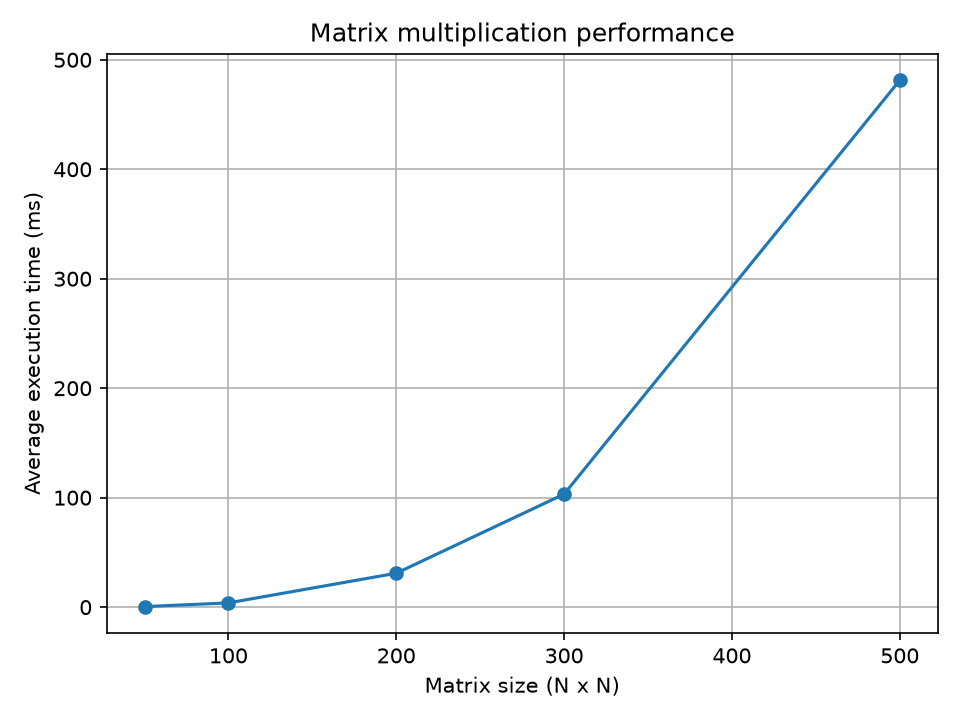
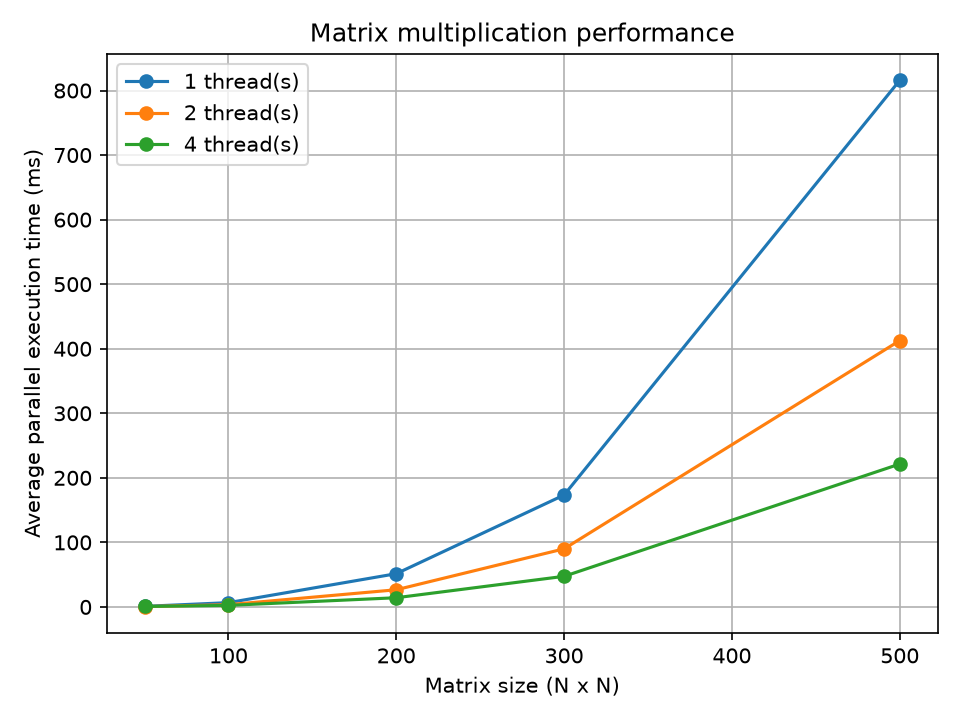
Add parallel matrix multiplication benchmarks

diff --git a/main.cpp b/main.cpp
@@ -3,90 +3,213 @@
 #include <vector>
 #include <chrono>
 #include <iomanip>
+#include <thread>
+#include <algorithm>
 #include <string>
 
-int main()
-{
-    std::ifstream inA("A.txt");
-    std::ifstream inB("B.txt");
+using namespace std;
 
-    if (!inA.is_open() || !inB.is_open())
+using Matrix = vector<vector<int>>;
+using ResultMatrix = vector<vector<long long>>;
+
+ResultMatrix multiply(const Matrix &A, const Matrix &B, int n)
+{
+    ResultMatrix C(n, vector<long long>(n, 0));
+
+    for (int i = 0; i < n; i++)
     {
-        std::cerr << "Error: cannot open input files\n";
+        for (int k = 0; k < n; k++)
+        {
+            for (int j = 0; j < n; j++)
+            {
+                C[i][j] +=
+                    static_cast<long long>(A[i][k]) * B[k][j];
+            }
+        }
+    }
+
+    return C;
+}
+
+ResultMatrix multiply_parallel(
+    const Matrix &A,
+    const Matrix &B,
+    int n,
+    int thread_count)
+{
+    ResultMatrix C(n, vector<long long>(n, 0));
+    vector<thread> threads;
+
+    int rows_per_thread = n / thread_count;
+    int remaining_rows = n % thread_count;
+    int start_row = 0;
+
+    for (int t = 0; t < thread_count; t++)
+    {
+        int rows = rows_per_thread + (t < remaining_rows ? 1 : 0);
+        int end_row = start_row + rows;
+
+        threads.emplace_back(
+            [&A, &B, &C, n, start_row, end_row]()
+            {
+                for (int i = start_row; i < end_row; i++)
+                {
+                    for (int k = 0; k < n; k++)
+                    {
+                        for (int j = 0; j < n; j++)
+                        {
+                            C[i][j] +=
+                                static_cast<long long>(A[i][k]) * B[k][j];
+                        }
+                    }
+                }
+            });
+
+        start_row = end_row;
+    }
+
+    for (auto &thread : threads)
+    {
+        thread.join();
+    }
+
+    return C;
+}
+
+int main(int argc, char *argv[])
+{
+    int thread_count = 4;
+
+    if (argc > 2)
+    {
+        cerr << "Usage: ./build/matrix [thread_count]\n";
+        return 1;
+    }
+
+    if (argc == 2)
+    {
+        try
+        {
+            size_t pos = 0;
+            thread_count = stoi(argv[1], &pos);
+
+            if (pos != string(argv[1]).length())
+            {
+                cerr << "Invalid thread count\n";
+                return 1;
+            }
+        }
+        catch (const exception &)
+        {
+            cerr << "Invalid thread count\n";
+            return 1;
+        }
+    }
+
+    if (thread_count <= 0)
+    {
+        cerr << "Thread count must be positive\n";
+        return 1;
+    }
+
+    ifstream inA("A.txt");
+    ifstream inB("B.txt");
+
+    if (!inA || !inB)
+    {
+        cerr << "Cannot open input files\n";
         return 1;
     }
 
     int nA, nB;
 
-    if (!(inA >> nA) || !(inB >> nB))
+    if (!(inA >> nA) || !(inB >> nB) || nA <= 0 || nA != nB)
     {
-        std::cerr << "Error: cannot read matrix sizes\n";
-        return 1;
-    }
-
-    if (nA <= 0 || nB <= 0 || nA != nB)
-    {
-        std::cerr << "Error: invalid matrix sizes\n";
+        cerr << "Invalid matrix sizes\n";
         return 1;
     }
 
     int n = nA;
+    thread_count = min(thread_count, n);
 
-    std::vector<int> A(n * n);
-    std::vector<int> B(n * n);
-    std::vector<long long> C(n * n, 0);
+    Matrix A(n, vector<int>(n));
+    Matrix B(n, vector<int>(n));
 
-    for (int i = 0; i < n * n; ++i)
+    for (int i = 0; i < n; i++)
     {
-        if (!(inA >> A[i]) || !(inB >> B[i]))
+        for (int j = 0; j < n; j++)
         {
-            std::cerr << "Error: cannot read matrix elements\n";
-            return 1;
-        }
-    }
-
-    auto start = std::chrono::high_resolution_clock::now();
-
-    for (int i = 0; i < n; ++i)
-    {
-        for (int j = 0; j < n; ++j)
-        {
-            for (int k = 0; k < n; ++k)
+            if (!(inA >> A[i][j]) || !(inB >> B[i][j]))
             {
-                C[i * n + j] +=
-                    static_cast<long long>(A[i * n + k]) * B[k * n + j];
+                cerr << "Cannot read matrix elements\n";
+                return 1;
             }
         }
     }
 
-    auto end = std::chrono::high_resolution_clock::now();
+    auto start = chrono::steady_clock::now();
 
-    double elapsed = std::chrono::duration<double, std::milli>(
-                         end - start)
-                         .count();
+    ResultMatrix C = multiply(A, B, n);
 
-    std::ofstream out("C.txt");
+    auto finish = chrono::steady_clock::now();
 
-    if (!out.is_open())
+    double sequential_time =
+        chrono::duration<double, milli>(finish - start).count();
+
+    start = chrono::steady_clock::now();
+
+    ResultMatrix parallel_C =
+        multiply_parallel(A, B, n, thread_count);
+
+    finish = chrono::steady_clock::now();
+
+    double parallel_time =
+        chrono::duration<double, milli>(finish - start).count();
+
+    if (C != parallel_C)
     {
-        std::cerr << "Error: cannot open output file\n";
+        cerr << "Error: results do not match\n";
+        return 1;
+    }
+
+    ofstream out("C.txt");
+
+    if (!out)
+    {
+        cerr << "Cannot create output file\n";
         return 1;
     }
 
     out << n << '\n';
 
-    for (int i = 0; i < n; ++i)
+    for (int i = 0; i < n; i++)
     {
-        for (int j = 0; j < n; ++j)
+        for (int j = 0; j < n; j++)
         {
-            out << C[i * n + j] << ' ';
+            out << parallel_C[i][j] << ' ';
         }
+
         out << '\n';
     }
 
-    std::cout << "Matrix size: " << n << "x" << n << '\n';
-    std::cout << std::fixed << std::setprecision(3);
-    std::cout << "Execution time: " << elapsed << " ms\n";
+    cout << "Matrix size: " << n << "x" << n << '\n';
+    cout << "Thread count: " << thread_count << '\n';
+
+    cout << fixed << setprecision(3);
+
+    cout << "Sequential time: "
+         << sequential_time << " ms\n";
+
+    cout << "Parallel time: "
+         << parallel_time << " ms\n";
+
+    cout << "Results match: yes\n";
+
+    if (parallel_time > 0.0)
+    {
+        cout << "Speedup: "
+             << sequential_time / parallel_time << "x\n";
+    }
 
     return 0;
 }

diff --git a/plot.py b/plot.py
@@ -11,6 +11,7 @@ PROGRAM = ROOT / "build" / "matrix"
 GENERATOR = ROOT / "gen.py"
 
 SIZES = [50, 100, 200, 300, 500]
+THREAD_COUNTS = [1, 2, 4]
 REPEATS = 3
 
 if not PROGRAM.exists():
@@ -20,52 +21,93 @@ if not PROGRAM.exists():
 results = []
 
 for n in SIZES:
-    times = []
+    subprocess.run(
+        [sys.executable, str(GENERATOR), str(n)],
+        cwd=ROOT,
+        check=True
+    )
 
-    for _ in range(REPEATS):
-        subprocess.run(
-            [sys.executable, str(GENERATOR), str(n)],
-            cwd=ROOT,
-            check=True
+    for thread_count in THREAD_COUNTS:
+        sequential_times = []
+        parallel_times = []
+
+        for _ in range(REPEATS):
+            process = subprocess.run(
+                [str(PROGRAM), str(thread_count)],
+                cwd=ROOT,
+                capture_output=True,
+                text=True,
+                check=True
+            )
+
+            sequential_match = re.search(
+                r"Sequential time:\s*([\d.]+)\s*ms",
+                process.stdout
+            )
+
+            parallel_match = re.search(
+                r"Parallel time:\s*([\d.]+)\s*ms",
+                process.stdout
+            )
+
+            if sequential_match is None or parallel_match is None:
+                print("Error: execution times not found")
+                print(process.stdout)
+                sys.exit(1)
+
+            sequential_times.append(float(sequential_match.group(1)))
+            parallel_times.append(float(parallel_match.group(1)))
+
+        sequential_average = sum(sequential_times) / REPEATS
+        parallel_average = sum(parallel_times) / REPEATS
+        speedup = sequential_average / parallel_average
+
+        results.append((
+            n,
+            thread_count,
+            sequential_average,
+            parallel_average,
+            speedup
+        ))
+
+        print(
+            f"Size: {n}x{n}, threads: {thread_count}, "
+            f"sequential: {sequential_average:.3f} ms, "
+            f"parallel: {parallel_average:.3f} ms, "
+            f"speedup: {speedup:.3f}x"
         )
-
-        process = subprocess.run(
-            [str(PROGRAM)],
-            cwd=ROOT,
-            capture_output=True,
-            text=True,
-            check=True
-        )
-
-        match = re.search(
-            r"Execution time:\s*([\d.]+)\s*ms",
-            process.stdout
-        )
-
-        if match is None:
-            print("Error: execution time not found")
-            print(process.stdout)
-            sys.exit(1)
-
-        times.append(float(match.group(1)))
-
-    average = sum(times) / len(times)
-    results.append((n, average))
-
-    print(f"Size: {n}x{n}, average time: {average:.3f} ms")
 
 with open(ROOT / "results.csv", "w", newline="") as file:
     writer = csv.writer(file)
-    writer.writerow(["size", "average_time_ms"])
+    writer.writerow([
+        "size",
+        "threads",
+        "sequential_time_ms",
+        "parallel_time_ms",
+        "speedup"
+    ])
     writer.writerows(results)
 
-sizes = [item[0] for item in results]
-times = [item[1] for item in results]
+for thread_count in THREAD_COUNTS:
+    selected = [
+        item for item in results
+        if item[1] == thread_count
+    ]
 
-plt.plot(sizes, times, marker="o")
+    sizes = [item[0] for item in selected]
+    times = [item[3] for item in selected]
+
+    plt.plot(
+        sizes,
+        times,
+        marker="o",
+        label=f"{thread_count} thread(s)"
+    )
+
 plt.xlabel("Matrix size (N x N)")
-plt.ylabel("Average execution time (ms)")
+plt.ylabel("Average parallel execution time (ms)")
 plt.title("Matrix multiplication performance")
+plt.legend()
 plt.grid(True)
 plt.tight_layout()
 plt.savefig(ROOT / "performance.png", dpi=150)
